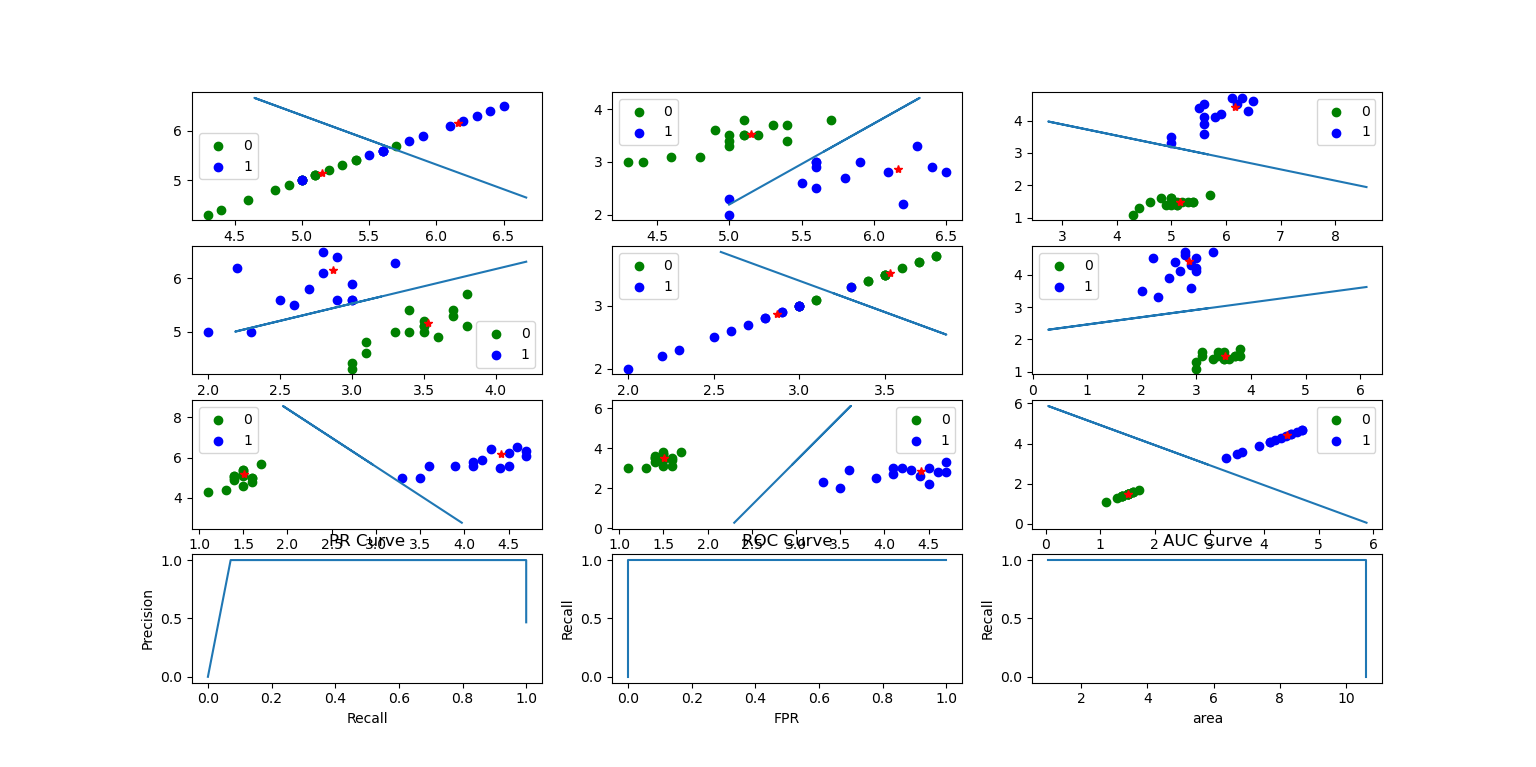
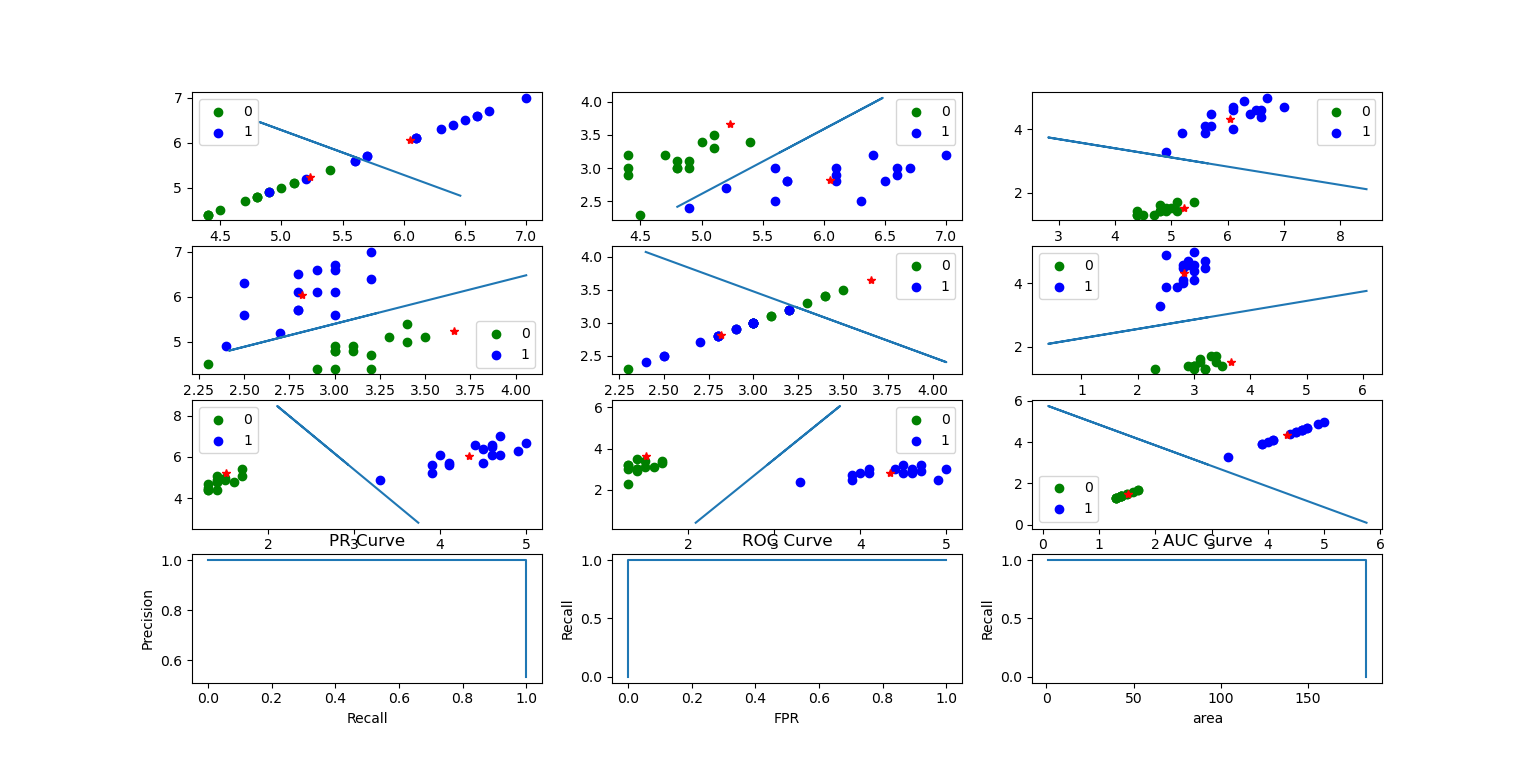
Holdout

diff --git a/MachineLearning/Course/Ch1/MED.py b/MachineLearning/Course/Ch1/MED.py
@@ -10,7 +10,7 @@ class MED(object):
         self.vecotr_length = 0 
         self.center_coordinates = {} #计算向量之和并最后求均值
         self.point_number = {} #统计向量个数
-        self.score = []
+        #self.score = []
 
     #向量距离
     def __distance(self, x, y):
@@ -21,10 +21,10 @@ class MED(object):
             tot += (x[i]-y[i])*(x[i]-y[i])
         return math.sqrt(tot)
 
-    #留出法
-    def div(self, data):
+    #分割数据集
+    def split(self, data, rate):
         #生成训练集
-        Iris_linear_train = data.iloc[0:int(len(data)*0.7)]
+        Iris_linear_train = data.iloc[0:int(len(data)*rate)]
         #print(Iris_linear_train)
         X_train = Iris_linear_train[[0, 1, 2]]
         Y_train = Iris_linear_train['target']
@@ -32,7 +32,7 @@ class MED(object):
         #print(Y_train)
 
         #生成测试集
-        Iris_linear_test = data.iloc[int(len(data)*0.7):len(data)].reset_index(drop=True)
+        Iris_linear_test = data.iloc[int(len(data)*rate):len(data)].reset_index(drop=True)
         #print(Iris_linear_test)
         X_test = Iris_linear_test[[0, 1, 2]]
         Y_test = Iris_linear_test['target']
@@ -42,6 +42,7 @@ class MED(object):
 
     #训练
     def fit(self, X_train, Y_train):
+        self.__init__()
         self.vecotr_length = len(X_train.columns)
         #计算向量之和
         for i in X_train.index:
@@ -59,33 +60,33 @@ class MED(object):
     
     #打分
     def __score(self, X_test):
-        self.Y_score = []
+        Y_score = []
         for i in X_test.index:
             x = X_test.iloc[i]
             total = 0
             for j in self.center_coordinates:
                 total += 1/self.__distance(x, self.center_coordinates[j])
             score = 1/self.__distance(x, self.center_coordinates[1]) / total
-            self.Y_score.append(score)
-        return self.Y_score
+            Y_score.append(score)
+        return Y_score
 
     def __TFNP(self, Y_scores, Y_test, thresholds):
         TP , FP , TN , FN = 0 , 0 , 0 , 0
         for i in range(0,len(Y_scores)):
-            if Y_scores[i] >= thresholds:
+            if Y_scores[i] > thresholds:
                 if  Y_test[i] == 1:
                     TP += 1
                 else:
                     FP += 1
-            else:
+            elif Y_scores[i] < thresholds:
                 if  Y_test[i] == 1:
                     FN += 1
                 else:
                     TN += 1
         return TP , FP , TN , FN
 
-    #评估
-    def evaluate(self, X_test, Y_test):
+    #可视化评估
+    def __evaluate(self, X_test, Y_test):
         Y_score = self.__score(X_test)
 
         #数据集预处理
@@ -135,8 +136,7 @@ class MED(object):
                 #添加图例
                 plt.legend()
 
-        # 评估值计算
-        eps = 1e-18
+        # 曲线度量
         precision = []
         recall = []
         FPR = []
@@ -144,8 +144,11 @@ class MED(object):
         area = []
         for thresholds in range(0,1000):
             TP , FP , TN , FN = self.__TFNP(Y_score, Y_test, thresholds/1000)
-            precision.append(TP / (TP + FP + eps))
-            recall.append(TP / (TP + FN + eps))
+            if TP + FP != 0 :
+                precision.append(TP / (TP + FP))
+            else:
+                precision.append(1)
+            recall.append(TP / (TP + FN))
             FPR.append(FP / (FP + TN))
             area_sum += FP / (FP + TN)
             area.append(area_sum)
@@ -170,3 +173,38 @@ class MED(object):
 
         #保存并显示
         plt.show()
+    
+    #留出法
+    def Holdout(self, data, rate, n):
+        accuracy = []
+        precision = []
+        recall = []
+        specificity = []
+        f1score = []
+
+        for i in range(0,n):
+            X_train  , Y_train, X_test , Y_test = self.split(data, rate)
+            self.fit(X_train, Y_train)
+            Y_score = self.__score(X_test)
+            TP , FP , TN , FN = self.__TFNP(Y_score, Y_test, 0.5)
+            accuracy.append((TP + TN) / (TP + TN + FP + FN))
+            precision.append(TP / (TP + FP))
+            recall.append(TP / (TP + FN))
+            specificity.append(TN / (TN + FP))
+            f1score.append(2*recall[i]*precision[i]/(recall[i]+precision[i]))
+
+        Accuracy = np.mean(accuracy)
+        Precision = np.mean(precision)
+        Recall = np.mean(recall)
+        Specificity = np.mean(specificity)
+        F1score = np.mean(f1score)
+
+        print('Accuracy: ', Accuracy)
+        print('Precision: ', Precision)
+        print('Recall: ', Recall)
+        print('Specificity: ', Specificity)
+        print('F1score: ', F1score)
+
+        #利用残留数据进行曲线度量
+        self.__evaluate(X_test , Y_test)
+

diff --git a/MachineLearning/Course/Ch1/Iris_nolinear.py b/MachineLearning/Course/Ch1/Iris_nolinear.py
@@ -11,12 +11,10 @@ if __name__ == '__main__':
     Iris_df.insert(0,'target',Iris.target)
 
     #构造新数据集
-    Iris_linear = Iris_df[Iris_df['target']!=0] #删除0类
-    Iris_linear['target']-=1 # 1->0 && 2->1 
-    Iris_linear = Iris_linear.sample(frac=1).reset_index(drop=True)#随机打乱
+    Iris_nolinear = Iris_df[Iris_df['target']!=0] #删除0类
+    Iris_nolinear['target']-=1 # 1->0 && 2->1 
+    Iris_nolinear = Iris_nolinear.sample(frac=1).reset_index(drop=True)#随机打乱
     #print(Iris_linear)
 
     med = MED()
-    X_train  , Y_train, X_test , Y_test = med.div(Iris_linear)
-    med.fit(X_train, Y_train)
-    med.evaluate(X_test, Y_test)
+    med.Holdout(Iris_nolinear, 0.7, 300)

diff --git a/MachineLearning/Course/Ch1/Iris_linear.py b/MachineLearning/Course/Ch1/Iris_linear.py
@@ -16,6 +16,4 @@ if __name__ == '__main__':
     #print(Iris_linear)
 
     med = MED()
-    X_train  , Y_train, X_test , Y_test = med.div(Iris_linear)
-    med.fit(X_train, Y_train)
-    med.evaluate(X_test, Y_test)
+    med.Holdout(Iris_linear, 0.7, 300)

diff --git a/MachineLearning/Course/Ch1/README.md b/MachineLearning/Course/Ch1/README.md
@@ -16,17 +16,19 @@ Iris数据集（鸢尾花数据集）是常用的分类实验数据集，由Fish
 
 \1. Iris数据集已与常见的机器学习工具集成，请查阅资料找出MATLAB平台或Python平台加载内置Iris数据集方法，并简要描述该数据集结构。
 
-> {'data': array([[5.1, 3.5, 1.4, 0.2],
->     [4.9, 3. , 1.4, 0.2],
->     [4.7, 3.2, 1.3, 0.2]，
->     ···
-> 'target': array([0, 0, 0, 0, ···
-> 'frame': None, 
-> 'target_names' ···}
->
+```
+{'data': array([[5.1, 3.5, 1.4, 0.2],
+               [4.9, 3. , 1.4, 0.2],
+               [4.7, 3.2, 1.3, 0.2]，
+ 'target': array([0, 0, 0, 0, ···
+ 'frame': None, 
+ 'target_names' ···}
+```
 > 数据集是一个map，其中data中含有150个数据，每个数据有四个属性值；target中为data中数据对应的分类，有0-2共三种；target_names中为分类值所对应的花名
 
 \2. Iris数据集中有一个种类与另外两个类是线性可分的，其余两个类是线性不可分的。请你通过数据可视化的方法找出该线性可分类并给出判断依据。
+
+Iris.py
 
 ```python
 from sklearn import datasets
@@ -64,17 +66,12 @@ for i in range(0,3):
 
 plt.show()
 ```
+![](Figure_1.png)
 
-
-
-
-> ![](Figure_1.png)
->
 > 0是线性可分的，可以通过一个线性函数将其与另外两个类分开
 
-
-
 \3.去除Iris数据集中线性不可分的类中最后一个，余下的两个线性可分的类构成的数据集命令为Iris_linear，请使用留出法将Iris_linear数据集按7:3分为训练集与测试集，并使用训练集训练一个MED分类器，在测试集上测试训练好的分类器的性能，给出《模式识别与机器学习-评估方法与性能指标》中所有量化指标并可视化分类结果。
+MED.py
 
 ```python
 from sklearn import datasets
@@ -251,6 +248,7 @@ class MED(object):
         #保存并显示
         plt.show()
 ```
+Iris_linear.py
 ```python
 from sklearn import datasets
 import matplotlib.pyplot as plt
@@ -276,8 +274,17 @@ if __name__ == '__main__':
     med.fit(X_train, Y_train)
     med.evaluate(X_test, Y_test)
 ```
-> ![](Figure_2.png)
->
+输出结果
+```
+Accuracy:  1.0
+Precision:  1.0
+Recall:  1.0
+Specificity:  1.0
+F1score:  1.0
+```
+
+![](Figure_2.png)
+
 > PS：因为x和y最小单位不同，所以视觉上的分界线并不垂直
 
 \4. 将Iris数据集白化，可视化白化结果并于原始可视化结果比较，讨论白化的作用。
@@ -288,6 +295,7 @@ if __name__ == '__main__':
 
 \5. 去除Iris数据集中线性可分的类，余下的两个线性不可分的类构成的数据集命令为Iris_nonlinear，请使用留出法将Iris_nonlinear数据集按7:3分为训练集与测试集，并使用训练集训练一个MED分类器，在测试集上测试训练好的分类器的性能，给出《模式识别与机器学习-评估方法与性能指标》中所有量化指标并可视化分类结果。讨论本题结果与3题结果的差异。
 
+Iris_nolinear.py
 ```python
 from sklearn import datasets
 import pandas as pd
@@ -312,9 +320,18 @@ if __name__ == '__main__':
     med.fit(X_train, Y_train)
     med.evaluate(X_test, Y_test)
 ```
-> ![](Figure_3.png)
->
-> 存在较多被误判的数据（FP，FN），PR曲线向左下移动，ROC曲线向右下移动
+输出结果
+```
+Accuracy:  0.7999999999999999
+Precision:  0.9166666666666666
+Recall:  0.6875
+Specificity:  0.9285714285714287
+F1score:  0.7857142857142857
+```
+
+![](Figure_3.png)
+
+> 存在较多被误判的数据，准确度精度召回率特异度F1score均有所下降，其中召回率下降最多，PR曲线向左下移动，ROC曲线向右下移动
 
 \6. 请使用5折交叉验证为Iris数据集训练一个多分类的贝叶斯分类器。给出平均Accuracy，并可视化实验结果。与第3题和第5题结果做比较，讨论贝叶斯分类器的优劣。
 
